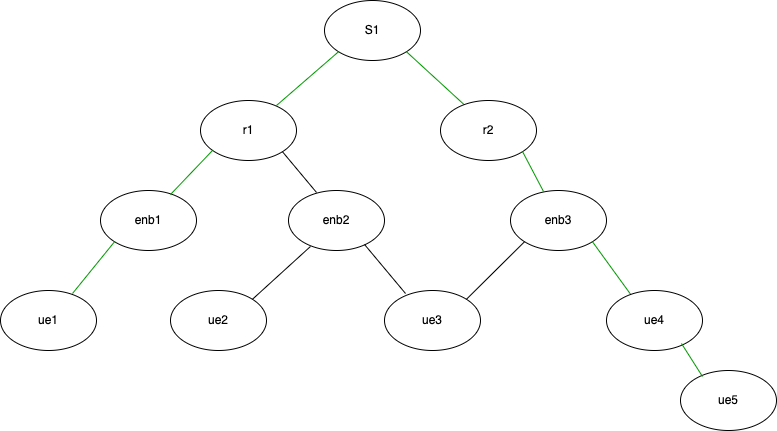
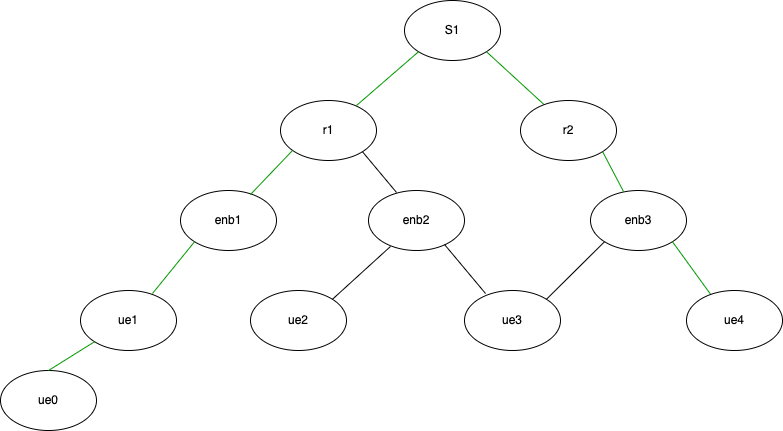
Adds results for load-determined experiments

diff --git a/examples/bottleneck-measurements/load-determined-bottleneck/layered-network/real-world-experiment-load-determined.py b/examples/bottleneck-measurements/load-determined-bottleneck/layered-network/real-world-experiment-load-determined.py
@@ -8,6 +8,7 @@ import numpy as np
 import statistics
 import matplotlib.pyplot as plt
 from setup import configure_link, read_state_json
+import seaborn as sns
 
 bottleneck_link_dest = {'name': 'enb1', 'ip': '10.0.3.2'}
 dynamic_link_name = "r1-enb2"
@@ -15,20 +16,22 @@ server = {'name': 'ue0', 'ip': '10.0.7.4'}
 contesting_client = 'enb2'
 client = 'ue4'
 
-n_iter = 5
+n_iter = 20
 latency_const = 1
 burst_const = 12500
+data = {'00': [], '01': [], '02': [], '03': [], '04': [], '05': []}
 
 # setup iperf server on server and bottleneck dest
-os.system(f"docker exec {server['name']} iperf -s &")
+# os.system(f"docker exec {server['name']} iperf -s &")
 os.system(f"docker exec {bottleneck_link_dest['name']} iperf -s &")
 
 # generate background traffic on path from client to server
-os.system(f"docker exec {client} iperf -t 0 -c {server['ip']} &")
+# os.system(f"docker exec {client} iperf -t 0 -c {server['ip']} &")
 # generate background traffic on bottleneck link from contesting client
 os.system(f"docker exec {contesting_client} iperf -t 0 -c {bottleneck_link_dest['ip']} &")
 
-bottlneck_bw_values = list(np.arange(10, 60, 10))
+# bottlneck_bw_values = list(np.arange(100, 60, 10))
+bottlneck_bw_values = [100]
 n_streams = len(bottlneck_bw_values)
 print(bottlneck_bw_values)
 
@@ -57,13 +60,14 @@ for i in range(n_streams):
 				if line[5] == '1':
 					bottleneck = line[0]
 					bottleneck_bandwidth.append(float(line[6]))
-	# calculate median estimated bandwidth
-	bandwidth_est.append(statistics.median(bottleneck_bandwidth))
+					data[line[0]].append(float(line[6]))
 
 # plot bandwidth test results
-plt.scatter(np.arange(1, n_streams+1), bandwidth_est, c='orange')
-plt.xlabel('Number of parallel streams on bottleneck link')
-plt.ylabel('Measured bandwidth on detected bottlneck with pathneck')
-plt.title(f'Bandwidth [Mbits/sec] comparison')
-plt.savefig('pathneck-bandwidth-measurements')
+total_data = [data[key] for key in data]
+sns.stripplot(data=total_data, jitter=True, color='black')
+sns.boxplot(total_data)
+plt.xlabel('Hop ID')
+plt.ylabel('Measured bandwidth ')
+plt.title(f'Bandwidth [Mbits/sec] distributions of detected bottlenecks')
+plt.savefig('pathneck-boxplot')
 plt.show()

diff --git a/src/experiment.py b/src/experiment.py
@@ -16,7 +16,7 @@ server = {'name': 'ue0', 'ip': '10.0.7.4'}
 contesting_client = 'enb2'
 client = 'ue4'
 
-n_iter = 20
+n_iter = 5
 latency_const = 1
 burst_const = 12500
 data = {'00': [], '01': [], '02': [], '03': [], '04': [], '05': []}
@@ -30,16 +30,16 @@ os.system(f"docker exec {client} iperf -t 0 -c {server['ip']} &")
 # generate background traffic on bottleneck link from contesting client
 os.system(f"docker exec {contesting_client} iperf -t 0 -c {bottleneck_link_dest['ip']} &")
 
-# bottlneck_bw_values = list(np.arange(100, 60, 10))
-bottlneck_bw_values = [100]
-n_streams = len(bottlneck_bw_values)
-print(bottlneck_bw_values)
+# bottleneck_bw_values = list(np.arange(100, 60, 10))
+bottleneck_bw_values = [100]
+n_streams = len(bottleneck_bw_values)
+print(bottleneck_bw_values)
 
 # run pathneck from client c1 to server s1
 bandwidth_est = []
 for i in range(n_streams):
 	# configure link before bottleneck link
-	contesting_traffic = bottlneck_bw_values[i]
+	contesting_traffic = bottleneck_bw_values[i]
 	print(f"contesting traffic: {contesting_traffic}")
 	current_state = read_state_json()
 	links = current_state["links"]

diff --git a/examples/bottleneck-measurements/load-determined-bottleneck/layered-network/real_world-load-determined.py b/examples/bottleneck-measurements/load-determined-bottleneck/layered-network/real_world-load-determined.py
@@ -20,12 +20,12 @@ Links Format:
 """
 links = [(("s1", "10.0.1.2"), ("r1", "10.0.1.4"), (100, 12500, 1)),
         (("r2", "10.0.2.2"), ("enb3", "10.0.2.4"), (100, 12500, 1)),
-        (("enb1", "10.0.3.2"), ("ue1", "10.0.3.4"), (40, 12500, 1)),
+        (("enb1", "10.0.3.2"), ("ue1", "10.0.3.4"), (100, 12500, 1)),
         (("enb2", "10.0.4.2"), ("ue2", "10.0.4.4"), (100, 12500, 1)),
         (("enb3", "10.0.5.2"), ("ue3", "10.0.5.4"), (0.0001, 12500, 1)),
         (("enb3", "10.0.6.2"), ("ue4", "10.0.6.4"), (100, 12500, 1)),
         (("ue1", "10.0.7.2"), ("ue0", "10.0.7.4"), (100, 12500, 1)),
-        (("r1", "10.0.8.2"), ("enb1", "10.0.8.4"), (60, 12500, 1)),
+        (("r1", "10.0.8.2"), ("enb1", "10.0.8.4"), (100, 12500, 1)),
         (("r1", "10.0.9.2"), ("enb2", "10.0.9.4"), (100, 12500, 1)),
         (("enb2", "10.0.10.2"), ("ue3", "10.0.10.4"), (100, 12500, 1)),
         (("s1", "10.0.11.2"), ("r2", "10.0.11.4"), (100, 12500, 1))]

diff --git a/src/topology_config.py b/src/topology_config.py
@@ -20,12 +20,12 @@ Links Format:
 """
 links = [(("s1", "10.0.1.2"), ("r1", "10.0.1.4"), (100, 12500, 1)),
         (("r2", "10.0.2.2"), ("enb3", "10.0.2.4"), (100, 12500, 1)),
-        (("enb1", "10.0.3.2"), ("ue1", "10.0.3.4"), (10, 12500, 1)),
+        (("enb1", "10.0.3.2"), ("ue1", "10.0.3.4"), (100, 12500, 1)),
         (("enb2", "10.0.4.2"), ("ue2", "10.0.4.4"), (100, 12500, 1)),
         (("enb3", "10.0.5.2"), ("ue3", "10.0.5.4"), (0.0001, 12500, 1)),
         (("enb3", "10.0.6.2"), ("ue4", "10.0.6.4"), (100, 12500, 1)),
         (("ue1", "10.0.7.2"), ("ue0", "10.0.7.4"), (100, 12500, 1)),
-        (("r1", "10.0.8.2"), ("enb1", "10.0.8.4"), (100, 12500, 1)),
+        (("r1", "10.0.8.2"), ("enb1", "10.0.8.4"), (30, 12500, 1)),
         (("r1", "10.0.9.2"), ("enb2", "10.0.9.4"), (100, 12500, 1)),
         (("enb2", "10.0.10.2"), ("ue3", "10.0.10.4"), (100, 12500, 1)),
         (("s1", "10.0.11.2"), ("r2", "10.0.11.4"), (100, 12500, 1))]

diff --git a/examples/bottleneck-measurements/README.md b/examples/bottleneck-measurements/README.md
@@ -16,7 +16,7 @@ than the other and running Pathneck end-to-end to measure
 the available bandwidth on the detected bottleneck links
 yields the following results:
 
-![](../../measurements/bottleneck/pathneck-bandwidth-measurements-real-world.png)
+![](../../measurements/bottleneck/capacity/pathneck-bandwidth-measurements-real-world.png)
 
 
 Now in another [experiment](./capacity-determined-bottleneck/layered-network/real-world-experiment-bw-limited.py)
@@ -26,6 +26,99 @@ shows the results of running Pathneck end to end from the client
 *ue5* to the server *ue1* to get an estimate of the available bandwidth on the
 detected bottleneck link.
 
-![](../../measurements/bottleneck/pathneck-bandwidth-measurements-surpass-bw.png)
+![](../../measurements/bottleneck/capacity/pathneck-bandwidth-measurements-surpass-bw.png)
 
 ## Load Determined Bottleneck
+This directory contains two types of network topologies [linear](../topologies/linear.py)
+and [layered](load-determined-bottleneck/layered-network/real_world-load-determined.py), as well as experiments that test the capabilities of the system
+to identify load determined bottlenecks.
+
+### Linear
+To create a load determined bottleneck a network with a [linear topology](../topologies/linear.py)
+as shown in the figure below was set up.
+
+![](../../measurements/graphs/linear.png)
+
+The bandwidth on each link was set to 100 Mbps and in the [experiment](load-determined-bottleneck/linear-network/pathneck-bw-measurements.py)
+Pathneck was used to detect the bottleneck along the path from *c1* to *s1*
+and estimate the available bandwidth. The figure below shows
+the detected bottleneck on the x-axis and the estimated available
+bandwidth on the y-axis. The correct bottleneck is detected and
+the estimated bandwidth is about half of the available bandwidth
+on the link as is expected.
+
+![](../../measurements/bottleneck/load/pathneck-boxplot-100.png)
+
+In our experience if the cross-traffic has a significantly higher
+rate than the path taken by Pathneck then either the link before
+the bottleneck router is detected as bottleneck or the link right
+after. This might be due to how queueing takes place on the router
+but it is unclear why Pathneck would estimate the link before the 
+bottleneck router to be the bottleneck. Also, the estimated available
+bandwidth on the link after the bottleneck router is too
+optimistic as it reports that the bandwidth on the link
+would be fairly shared. The figure below shows the results when the capacity
+on the link between *c2* and *r2* is set to 400 Mbps.
+
+![](../../measurements/bottleneck/load/pathneck-boxplot-400.png)
+
+In order to accurately detect bottlenecks and estimate available
+bandwidth on a path, Pathneck relies on gap value measurements
+which are influenced by other traffic on the path. Therefore,
+there needs to be some traffic on the path from *c1* to *s1*.
+It is unclear how to do this effectively. Generating UDP traffic
+on each link on the path has not been effective as that gives
+similar results to having no traffic. Now generating TCP traffic
+either end to end or on each link on the path has given accurate
+results when identifying capacity determined bottlenecks. However, 
+using when combined with cross-traffic the estimates of the 
+available bandwidth on the bottleneck are less accurate and 
+consistent. The figure below shows the results when each link
+in the network has a capacity of 100 Mbps and there is generated
+traffic from *c1* to *s1*. The correct bottleneck is detected
+but the estimates of the available bandwidth show more variance
+but still are ovearll lower than what would be estimated if there was
+no cross-traffic from *c2* was generated.
+
+![](../../measurements/bottleneck/load/pathneck-boxplot-100-background.png)
+
+As Pathneck relies on gap value measurements to estimate
+both the bottleneck as well as the estimated bandwidth
+on the bottleneck it was tested whether it would be able
+to detect capacity determined bottlenecks while there
+is cross-traffic as well on an earlier link. For this the
+same setup as before was run but with the capacity of the 
+link between *r3* and *r4* set to 30 Mbps. The results 
+show that the correct bottleck is detected 
+with a good estimate of the available bandwidth.
+
+![](../../measurements/bottleneck/load/pathneck-boxplot-linear-cap30.png)
+
+Overall the system can be expected to find the correct bottleneck
+but in a setting with cross-traffic the estimated bandwidth
+shows higher variance and the threshold to determine a capacity determined
+bottleneck becomes slightly higher.
+
+### Layered
+Similar [experiments](./load-determined-bottleneck/layered-network/real-world-experiment-load-determined.py)
+were carried out for the [layered network topology](./load-determined-bottleneck/layered-network/real_world-load-determined.py)
+shown in the figure below.
+
+![](../../measurements/graphs/layered-load-topology.png)
+
+For the load determined bottleneck the capacity of every
+link along the path taken by Pathneck (shown in green)
+was set to 100 Mbps and a cross-traffic of 100 Mbps
+was generated from *enb2* over the link between *r1* and
+*enb1*. As with the linear setup the correct
+bottleneck was determined, i.e. the link between *r1* and *enb1*,
+with similar values for the estimated available bandwidth.
+
+![](../../measurements/bottleneck/load/pathneck-boxplot-real-world-load100.png)
+
+For the capacity determined bottleneck the capacity of the
+link between *enb1* and *ue1* was set to 30 Mbps as before
+and the results are similar i.e. the correct bottleneck is
+detected with a good estimate of the available bandwidth.
+
+![](../../measurements/bottleneck/load/pathneck-boxplot-cap-bottleneck30.png)
